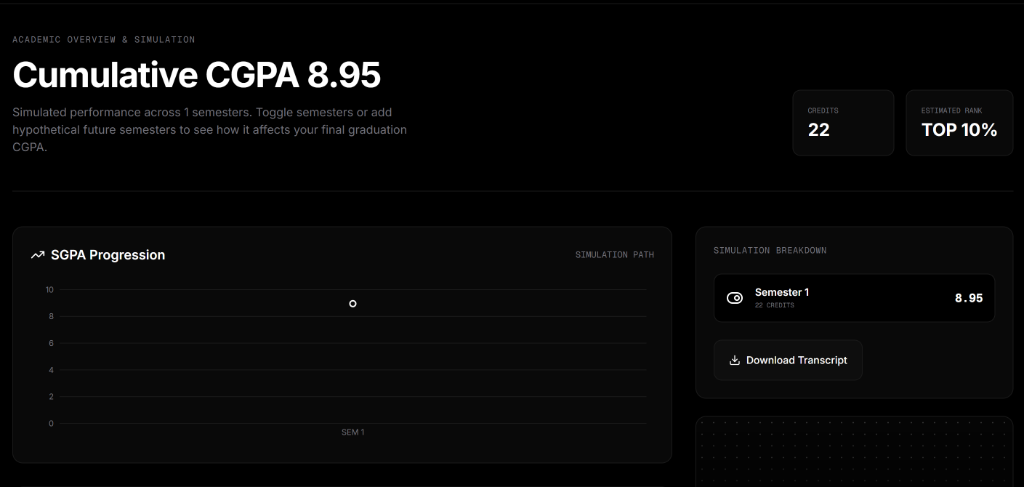
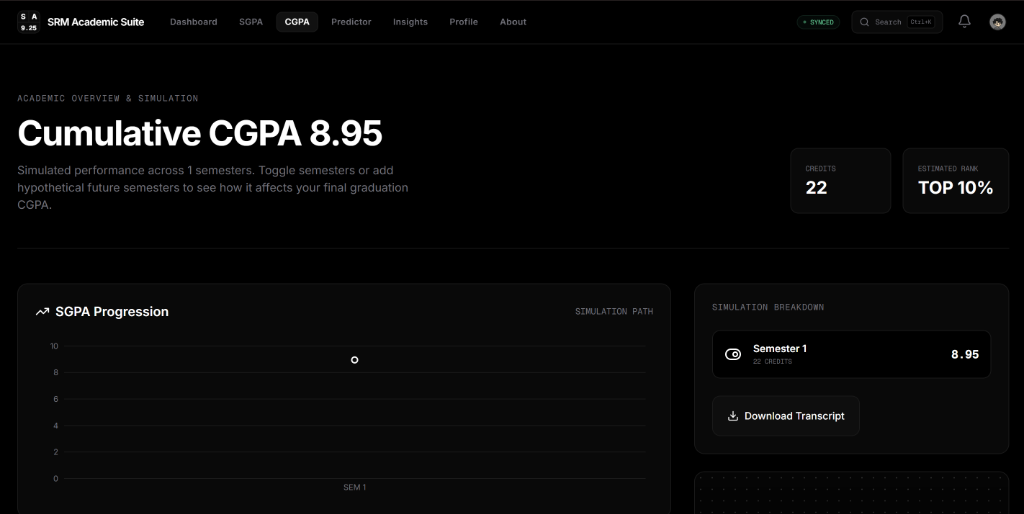
docs: add project metadata, screenshots, and lessons learned to README

diff --git a/README.md b/README.md
@@ -1,3 +1,20 @@
+---
+title: SRM Academic Suite
+tagline: AI-Powered Academic Analytics Platform
+description: An AI-powered academic analytics platform for SRM students to compute GPAs, plan targets, and receive personalized insights.
+image: /images/Srm_cgpa.png
+projectType: software
+live: https://srm-cgpa-calculator-by-haruto.vercel.app/
+github: https://github.com/harshwardhan1507/SRM-cgpa-calculator
+technologies:
+  - Next.js
+  - TypeScript
+  - Firebase
+  - Gemini AI
+  - Tailwind CSS
+  - Framer Motion
+---
+
 <div align="center">
 
 # 🎓 SRM Academic Suite
@@ -78,6 +95,9 @@ All calculations run client-side with instant results, backed by Firebase for cl
 
 ### Dashboard
 ![Dashboard](public/screenshots/dashboard.png)
+
+### SGPA Calculator
+![SGPA Calculator](public/screenshots/sgpa_calculator.png)
 
 ### CGPA Calculator
 ![CGPA Calculator](public/screenshots/cgpa_calculator.png)
@@ -348,6 +368,14 @@ Full Stack Developer
 - 💼 [LinkedIn](https://www.linkedin.com/in/harsh-wardhan-singh-cse/)
 - 🐙 [GitHub](https://github.com/harshwardhan1507)
 - 📧 [Email](mailto:[email redacted])
+
+---
+
+## 📝 Lessons Learned
+
+- **Deterministic Calculation First**: Core algebraic grading calculators must be mathematically deterministic. Relying on LLMs for calculations introduces hallucinations and decreases student trust.
+- **Progressive Web App Reach**: Building installable web features (PWA) with persistent local storage is essential for campus utility tools where university Wi-Fi is throttled.
+- **Clean Interface Hierarchy**: Dynamic planners require structured confidence inputs to reduce user cognitive load while offering complex optimization paths.
 
 ---
 